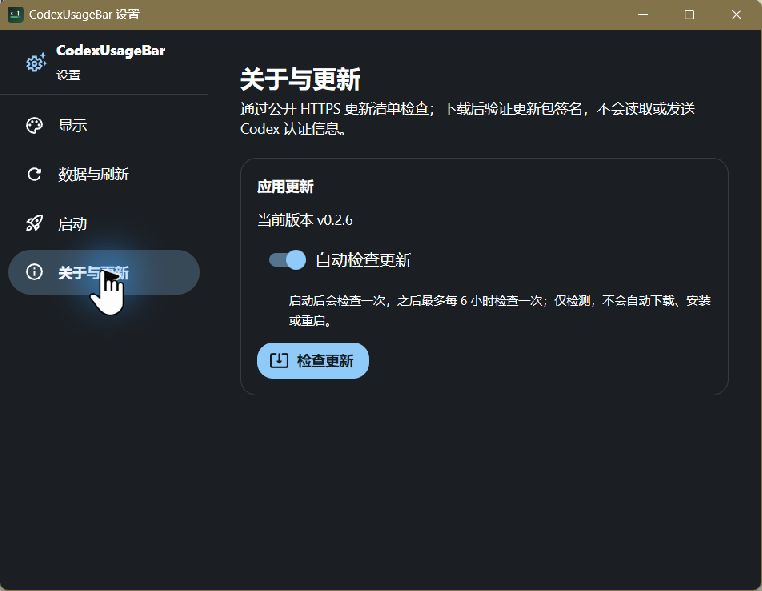
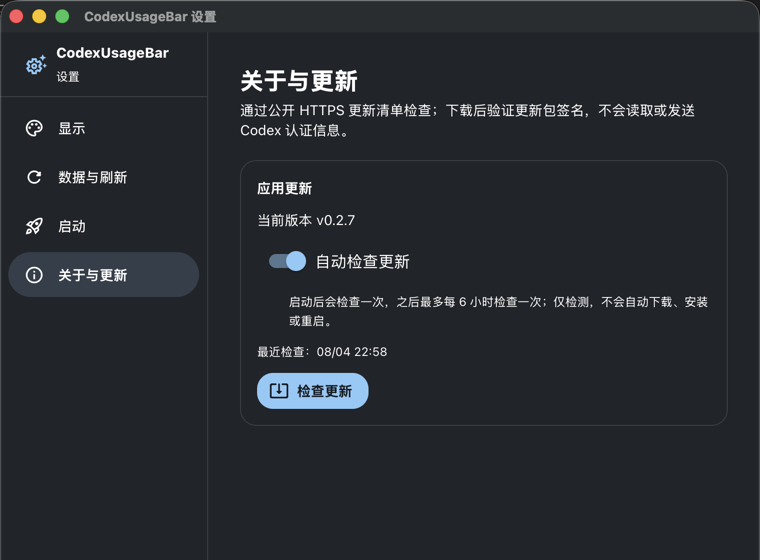
docs: 更新 v0.2.7 macOS 截图与说明

diff --git a/README.md b/README.md
@@ -21,13 +21,15 @@ Built with Tauri 2, Rust, React, TypeScript, Material UI, and Vite.
 
 ## Screenshots
 
-### Compact floating usage card (Windows example)
+### Compact floating usage card in macOS dark mode
 
-![CodexUsageBar compact dashboard showing dynamic quota windows, remaining usage, reset time, and top-right refresh controls](docs/images/dashboard-light.png)
+![CodexUsageBar compact dashboard on macOS showing native transparent corners, dynamic quota windows, remaining usage, and top-right controls](docs/images/dashboard-light.png)
 
-### Separate settings window and automatic-update controls
+> The normal state uses no extra space. When an update is available, a small green update icon appears to the left of Refresh. It opens About & updates and the confirmation dialog; it does not immediately download or install anything.
 
-![CodexUsageBar separate settings window with automatic-check controls, six-hour cadence, and a manual update entry point; payload signatures are verified after download](docs/images/settings-update.png)
+### Theme-aware macOS Settings and updates page
+
+![CodexUsageBar macOS Settings window with a dark native title bar and the v0.2.7 About and updates page showing automatic checks and the manual update entry point](docs/images/settings-update.png)
 
 ## Features
 
@@ -41,7 +43,7 @@ Built with Tauri 2, Rust, React, TypeScript, Material UI, and Vite.
 - Closes completely with its window—no tray-resident process. Autostart for the current account is optional.
 - Opens Settings in a separate opaque native window with sidebar categories: **Display**, **Data & refresh**, **Startup**, and **About & updates**.
 - Checks once shortly after launch and then at most every six hours by default; it can be disabled in **About & updates**. Automatic checks read only the public HTTPS `latest.json` manifest containing signatures for each platform update payload; they never download, install, or restart the app.
-- When a new version is found, the card notifies you. Only after confirming **Download and install** in Settings does Rust download and verify the Tauri signature. Windows hands off to the current-user NSIS installer; macOS may request authorization, replaces the app, and restarts.
+- When a new version is found, a small green update icon appears in the card's upper-right corner. It opens **About & updates** and the confirmation dialog. Only after confirming **Download and install** does Rust download and verify the Tauri signature. Windows hands off to the current-user NSIS installer; macOS may request authorization, replaces the app, and restarts.
 
 ## Install
 
@@ -76,7 +78,7 @@ The Display page controls the theme, always-on-top, and position / size lock. Th
 
 The app checks once shortly after launch and then at most every six hours by default; you can turn this off in Settings. Choose **Check for updates** when you want to check immediately:
 
-- When an update is available, the card notifies you and Settings shows the version. Only clicking **Download and install** downloads the payload, verifies its signature, and hands it to the native installer.
+- When an update is available, a small green update icon appears in the card's upper-right corner. Clicking it opens the update page and confirmation dialog. Only clicking **Download and install** downloads the payload, verifies its signature, and hands it to the native installer.
 - Windows closes CodexUsageBar when installation starts; macOS restarts after replacing the app. The app never silently downloads, replaces, or restarts without confirmation.
 - A current build, network error, or signature-verification failure never affects the quota data already on screen. A signature failure cancels installation.
 
